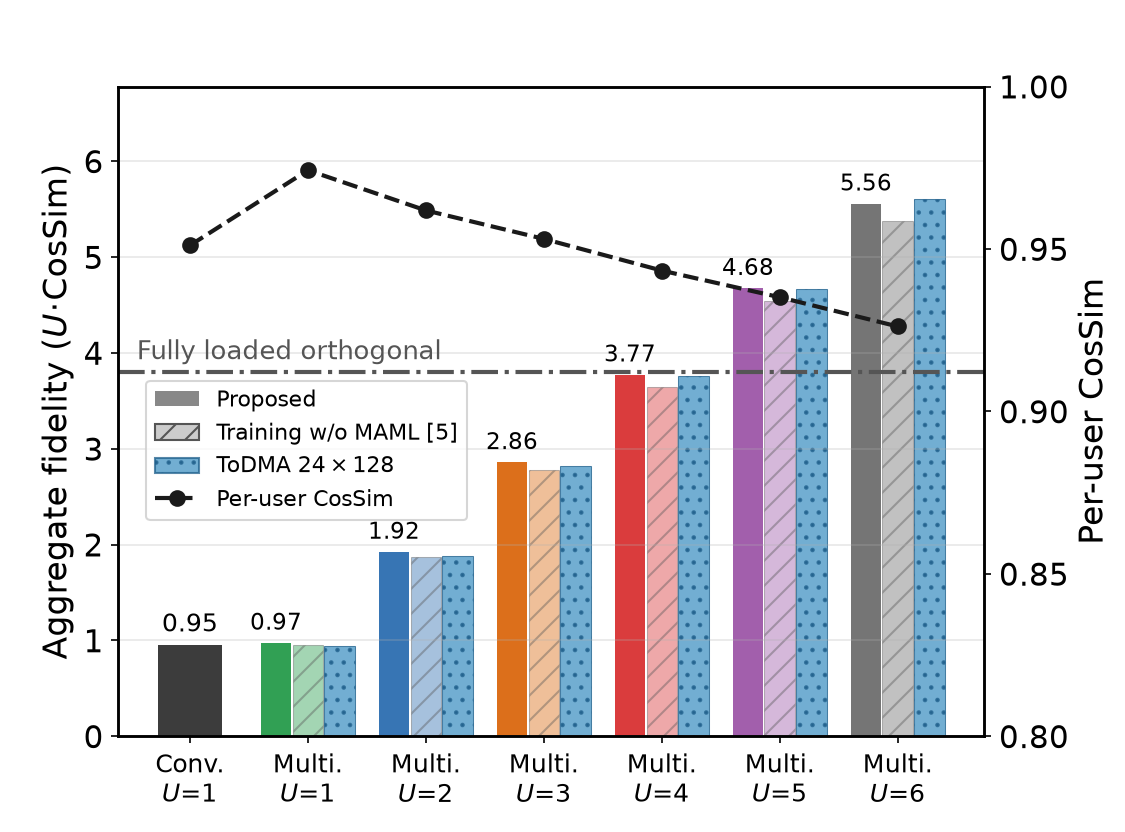
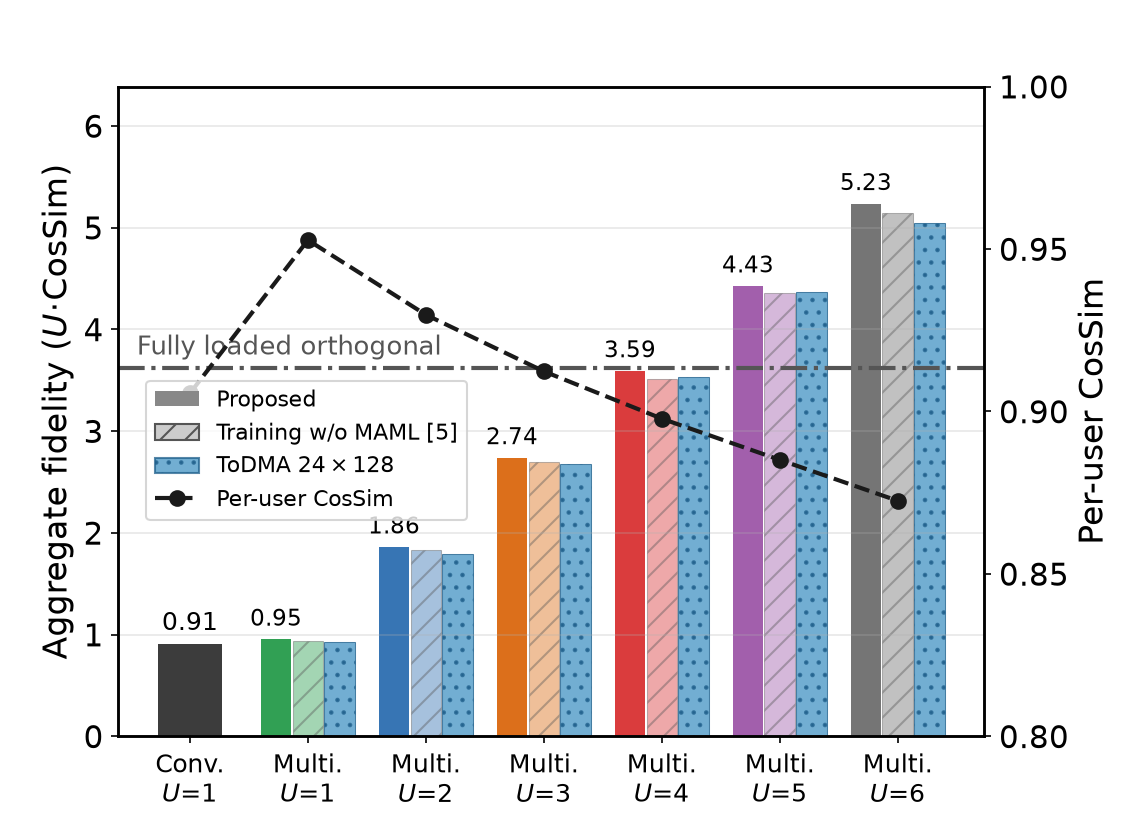
Rename the non-MAML reference to Training w/o MAML
Aligns the figure legends and the supplementary analysis with the
letter, where the scheme of the earlier JSAC paper is the same
architecture trained without MAML.

diff --git a/replot_cl.py b/replot_cl.py
@@ -108,7 +108,7 @@ fig, ax2 = one_panel()
 
 from matplotlib.patches import Patch
 
-snr_show = "20"
+snr_show = "10"
 conv_cos = R["baseline_U1_K1"]["snr"][snr_show]["cos"]
 per_user = [R[f"prop_U{U}_K4"]["snr"][snr_show]["cos"] for U in range(1, 7)]
 joint_pu = [JOINT[f"prop_U{U}_K4"]["snr"][snr_show]["cos"]
@@ -120,8 +120,8 @@ colors = ["#1a9641", "#2166ac", "#d95f02", "#d62728",
           "#984ea3", "#666666"]
 with open("fig_cl/cl_results_todma_u.json") as f:
     RT = json.load(f)
-todma_pu = [RT[f"todma_U{U}_T24_L128"]["20"]["cos"] if U != 4
-            else R["todma_T24_L128"]["20"]["cos"] for U in range(1, 7)]
+todma_pu = [RT[f"todma_U{U}_T24_L128"][snr_show]["cos"] if U != 4
+            else R["todma_T24_L128"][snr_show]["cos"] for U in range(1, 7)]
 thr_t = [U * c for U, c in zip(range(1, 7), todma_pu)]
 ax2.bar([0], [conv_cos], width=0.55, color="#1a1a1a", alpha=0.85)
 ax2.text(0, conv_cos + 0.08, f"{conv_cos:.2f}", ha="center",
@@ -185,6 +185,7 @@ for k in ["ksweep_U4_K1", "ksweep_U4_K2", "prop_U4_K4", "ksweep_U4_K8"]:
           "20dB:", round(R[k]["snr"]["20"]["cos"], 3))
 if "mamlD_U4_K4" in R:
     print("distil(MAML)@20:", round(R["mamlD_U4_K4"]["snr"]["20"]["cos"], 3))
+
 
 
 
